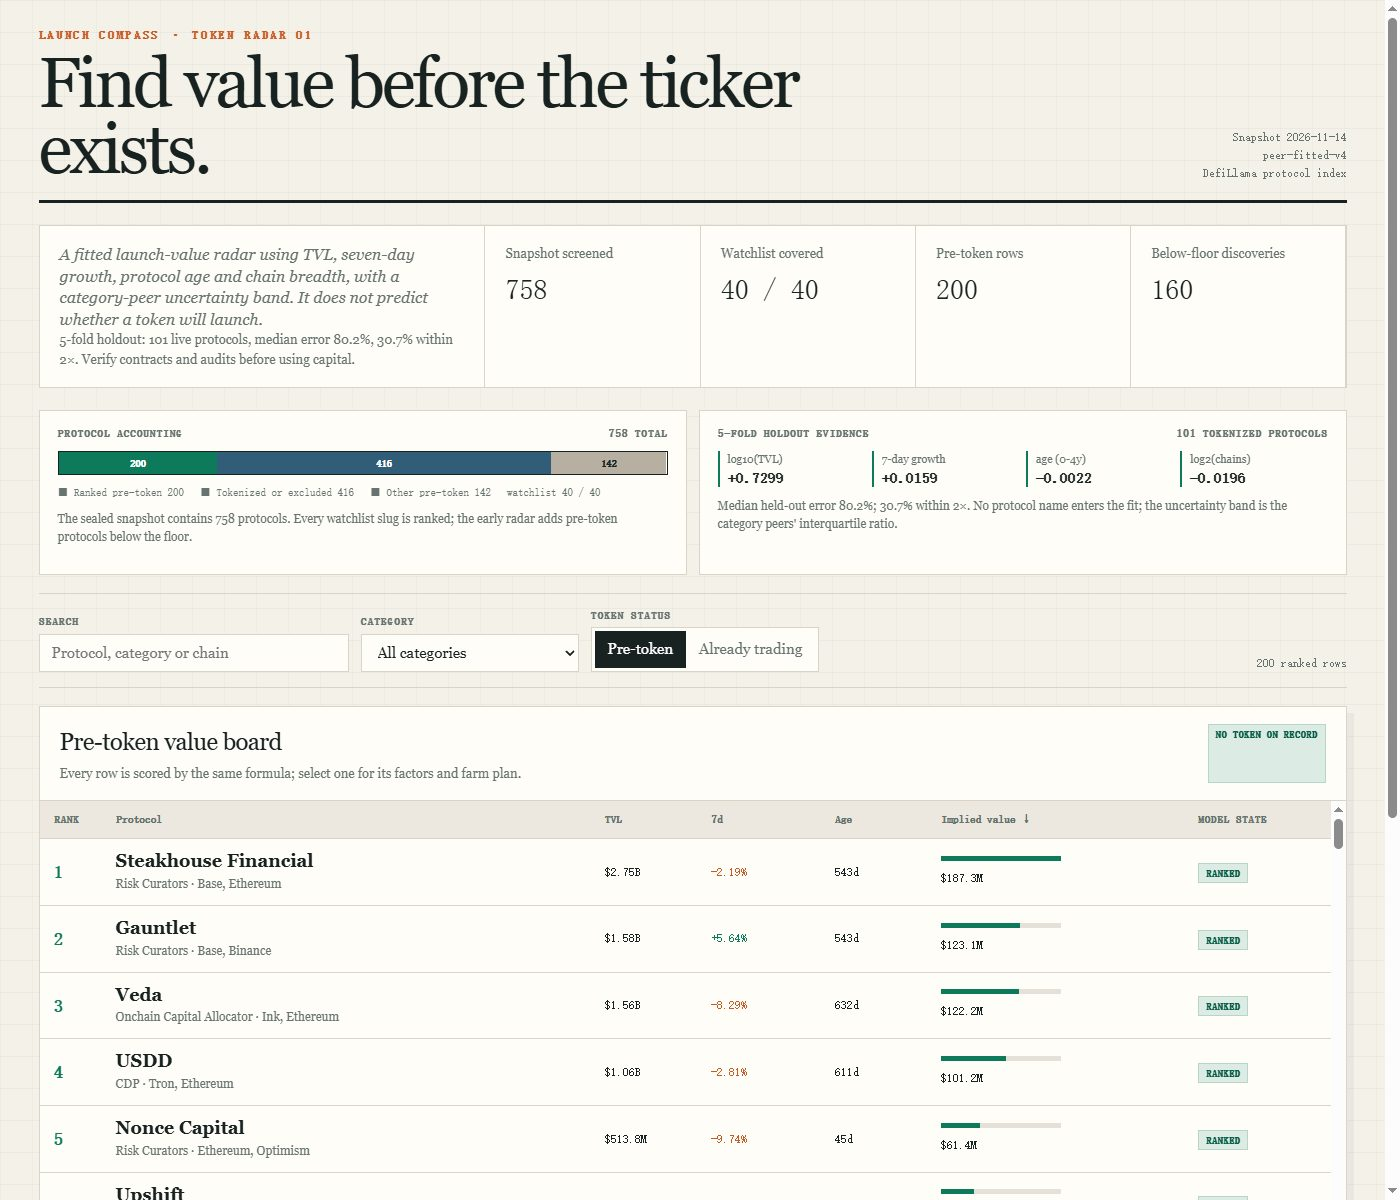
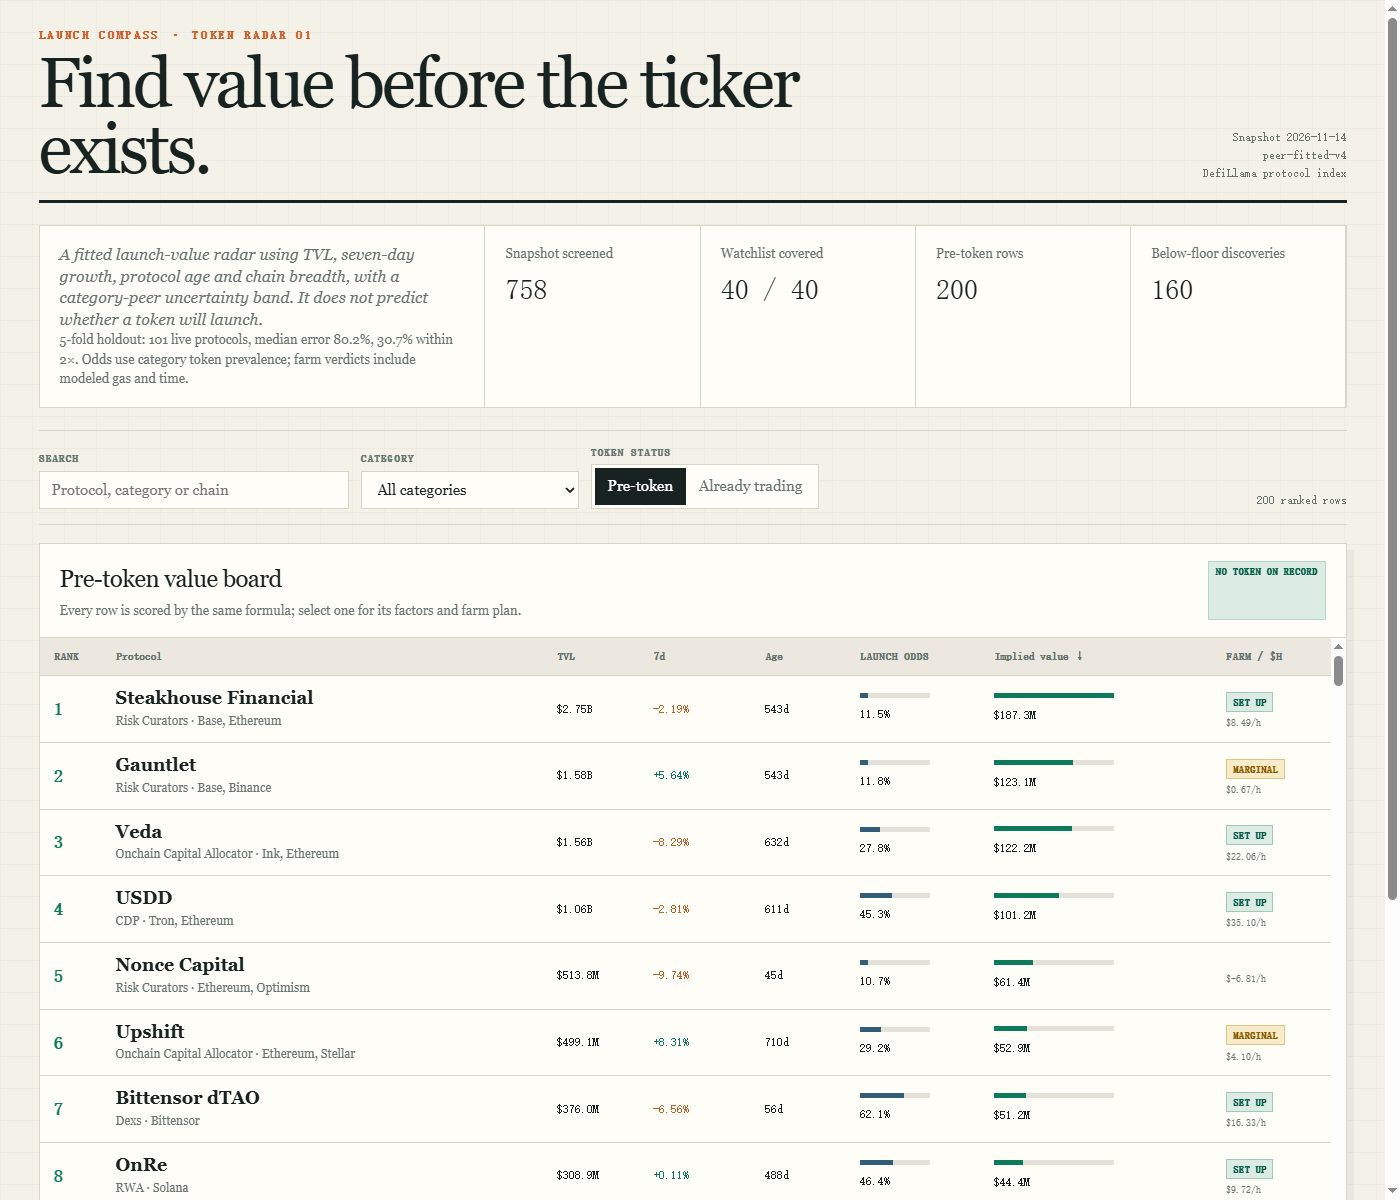
Add launch odds and costed farm verdicts

diff --git a/dashboard/dashboard.js b/dashboard/dashboard.js
@@ -124,10 +124,13 @@
         node("div", { class: "metric" }, node("span", { text: "Without token" }), node("b", { text: age(row.age_days) })),
         node("div", { class: "metric" }, node("span", { text: "Fitted FDV/TVL" }), node("b", { text: "×" + row.value_drivers.fitted_ratio })),
         node("div", { class: "metric" }, node("span", { text: "7d sensitivity" }), node("b", { text: row.value_drivers.growth_coefficient })),
-        node("div", { class: "metric" }, node("span", { text: "Implied value" }), node("b", { text: money(row.implied_value_usd) }))
+        node("div", { class: "metric" }, node("span", { text: "Implied value" }), node("b", { text: money(row.implied_value_usd) })),
+        node("div", { class: "metric" }, node("span", { text: "Launch odds" }), node("b", { text: row.launch_odds_pct + "%" })),
+        node("div", { class: "metric" }, node("span", { text: "Modeled net" }), node("b", { text: money(row.modeled_net_usd) })),
+        node("div", { class: "metric" }, node("span", { text: "Net / hour" }), node("b", { text: "$" + Number(row.modeled_net_per_hour).toFixed(2) }))
       )
     ));
-    body.appendChild(node("p", { class: "subtle", text: "Peer range: " + money(row.implied_value_low_usd) + " to " + money(row.implied_value_high_usd) + ". The range uses the category peers' lower and upper quartile FDV/TVL, not a promise." }));
+    body.appendChild(node("p", { class: "subtle", text: "Verdict: " + row.farm_verdict + ". Peer range: " + money(row.implied_value_low_usd) + " to " + money(row.implied_value_high_usd) + ". Modeled net uses a 0.0002% modeled allocation, assumed gas, " + row.modeled_hours + " work hours and a 5% annual capital cost; it is not a promise." }));
     body.appendChild(node("section", { class: "detail-section" },
       node("h3", { text: "Farm plan" }),
       node("ol", { class: "steps" }, steps(row).map(function (step) { return node("li", { text: step }); }))
@@ -155,7 +158,7 @@
     return node("section", { class: "summary" },
       node("div", null,
         node("p", { class: "note", text: "A fitted launch-value radar using TVL, seven-day growth, protocol age and chain breadth, with a category-peer uncertainty band. It does not predict whether a token will launch." }),
-        node("p", { class: "subtle", text: "5-fold holdout: " + DATA.calibration.sample_size + " live protocols, median error " + DATA.calibration.median_error_pct + "%, " + DATA.calibration.within_two_x_pct + "% within 2×. Verify contracts and audits before using capital." })
+        node("p", { class: "subtle", text: "5-fold holdout: " + DATA.calibration.sample_size + " live protocols, median error " + DATA.calibration.median_error_pct + "%, " + DATA.calibration.within_two_x_pct + "% within 2×. Odds use category token prevalence; farm verdicts include modeled gas and time." })
       ),
       node("div", null, node("p", { text: "Snapshot screened" }), node("strong", { text: String(DATA.universe_size) })),
       node("div", null, node("p", { text: "Watchlist covered" }), node("strong", { text: DATA.watchlist_size + " / " + DATA.watchlist_size })),
@@ -183,46 +186,6 @@
     );
   }
 
-  function evidence() {
-    var a = DATA.accounting;
-    var rankedShare = Math.round((a.ranked / DATA.universe_size) * 100);
-    var tokenizedShare = Math.round((a.tokenized / DATA.universe_size) * 100);
-    var otherShare = Math.max(0, 100 - rankedShare - tokenizedShare);
-    return node("section", { class: "evidence" },
-      node("div", { class: "evidence-panel" },
-        node("div", { class: "evidence-title" },
-          node("span", { text: "Protocol accounting" }),
-          node("span", { text: DATA.universe_size + " total" })
-        ),
-        node("div", { class: "ledger" },
-          node("span", { class: "ranked", style: "width:" + rankedShare + "%", text: String(a.ranked) }),
-          node("span", { class: "tokenized", style: "width:" + tokenizedShare + "%", text: String(a.tokenized) }),
-          node("span", { class: "other", style: "width:" + otherShare + "%", text: String(a.other_pre_token) })
-        ),
-        node("div", { class: "ledger-copy" },
-          node("span", { text: "■ Ranked pre-token " + a.ranked }),
-          node("span", { text: "■ Tokenized or excluded " + a.tokenized }),
-          node("span", { text: "■ Other pre-token " + a.other_pre_token }),
-          node("span", { text: "watchlist " + a.watchlist + " / " + a.watchlist })
-        ),
-        node("p", { class: "evidence-copy", text: "The sealed snapshot contains " + DATA.universe_size + " protocols. Every watchlist slug is ranked; the early radar adds pre-token protocols below the floor." })
-      ),
-      node("div", { class: "evidence-panel" },
-        node("div", { class: "evidence-title" },
-          node("span", { text: "5-fold holdout evidence" }),
-          node("span", { text: DATA.calibration.sample_size + " tokenized protocols" })
-        ),
-        node("div", { class: "coefficients" }, DATA.feature_evidence.map(function (item) {
-          return node("div", { class: "coefficient" },
-            node("span", { text: item.term }),
-            node("b", { text: (item.coefficient >= 0 ? "+" : "") + Number(item.coefficient).toFixed(4) })
-          );
-        })),
-        node("p", { class: "evidence-copy", text: "Median held-out error " + DATA.calibration.median_error_pct + "%; " + DATA.calibration.within_two_x_pct + "% within 2×. No protocol name enters the fit; the uncertainty band is the category peers' interquartile ratio." })
-      )
-    );
-  }
-
   function sortButton(key, label) {
     return node("th", null, node("button", { type: "button", text: label + (state.sort === key ? (state.direction < 0 ? " ↓" : " ↑") : ""), onclick: function () {
       if (state.sort === key) state.direction *= -1;
@@ -243,7 +206,7 @@
       node("div", { class: "table-wrap" },
         node("table", null,
           node("thead", null, node("tr", null,
-            node("th", { text: "Rank" }), sortButton("name", "Protocol"), sortButton("tvl", "TVL"), sortButton("growth", "7d"), sortButton("age", "Age"), sortButton("value", "Implied value"), node("th", { text: "Model state" })
+            node("th", { text: "Rank" }), sortButton("name", "Protocol"), sortButton("tvl", "TVL"), sortButton("growth", "7d"), sortButton("age", "Age"), node("th", { text: "Launch odds" }), sortButton("value", "Implied value"), node("th", { text: "Farm / $h" })
           )),
           node("tbody", null, list.map(function (row) {
             var growthClass = row.change_7d === null ? "" : row.change_7d >= 0 ? "positive" : "negative";
@@ -253,8 +216,12 @@
               node("td", { class: "num", text: money(row.tvl_usd) }),
               node("td", { class: "num " + growthClass, text: pct(row.change_7d) }),
               node("td", { class: "num", text: age(row.age_days) }),
+              node("td", { class: "odds" }, node("div", { class: "bar" }, node("i", { style: "width:" + Math.max(3, row.launch_odds_pct) + "%" })), node("span", { class: "num", text: row.launch_odds_pct + "%" })),
               node("td", { class: "value" }, node("div", { class: "bar" }, node("i", { style: "width:" + Math.max(3, Math.round((row.implied_value_usd / maximum) * 100)) + "%" })), node("span", { class: "num", text: money(row.implied_value_usd) })),
-              node("td", null, node("span", { class: "status", text: "ranked" }))
+              node("td", null,
+                node("span", { class: "verdict " + row.farm_verdict.toLowerCase().replace(" ", "-"), text: row.farm_verdict }),
+                node("div", { class: "verdict-copy", text: "$" + Number(row.modeled_net_per_hour).toFixed(2) + "/h" })
+              )
             );
           }))
         )
@@ -300,7 +267,6 @@
     var shell = node("div", { class: "shell" });
     shell.appendChild(header());
     shell.appendChild(summary());
-    shell.appendChild(evidence());
     shell.appendChild(toolbar());
     shell.appendChild(state.tab === "pre-token" ? preTokenTable() : liveTable());
     shell.appendChild(methodology());

diff --git a/lib/model.ts b/lib/model.ts
@@ -49,6 +49,11 @@ export interface BoardRow {
   implied_value_low_usd: number;
   implied_value_high_usd: number;
   implied_value_usd: number;
+  launch_odds_pct: number;
+  farm_verdict: "SET UP" | "MARGINAL" | "SKIP";
+  modeled_net_usd: number;
+  modeled_hours: number;
+  modeled_net_per_hour: number;
   token_status: "pre-token";
   value_drivers: {
     fitted_ratio: number;
@@ -82,16 +87,6 @@ export interface RadarData {
   early_size: number;
   live_size: number;
   universe_size: number;
-  accounting: {
-    ranked: number;
-    tokenized: number;
-    other_pre_token: number;
-    watchlist: number;
-  };
-  feature_evidence: Array<{
-    term: string;
-    coefficient: number;
-  }>;
   calibration: {
     sample_size: number;
     folds: number;
@@ -418,9 +413,53 @@ export function farmSteps(p: SnapshotProtocol, age: number | null): string[] {
   });
 }
 
+function tokenPrevalence(snapshot: Snapshot): (protocol: SnapshotProtocol) => number {
+  const grouped = new Map<string, { total: number; tokenized: number }>();
+  let total = 0;
+  let tokenized = 0;
+  for (const protocol of snapshot.protocols) {
+    total += 1;
+    const has = hasToken(protocol) ? 1 : 0;
+    tokenized += has;
+    const key = categoryKey(protocol.category);
+    const counts = grouped.get(key) ?? { total: 0, tokenized: 0 };
+    counts.total += 1;
+    counts.tokenized += has;
+    grouped.set(key, counts);
+  }
+  const baseline = tokenized / Math.max(1, total);
+  return (protocol) => {
+    const counts = grouped.get(categoryKey(protocol.category));
+    return counts && counts.total >= 8 ? counts.tokenized / counts.total : baseline;
+  };
+}
+
+function farmEconomics(
+  impliedValue: number,
+  odds: number,
+  protocol: SnapshotProtocol,
+  age: number | null,
+): Pick<BoardRow, "farm_verdict" | "modeled_net_usd" | "modeled_hours" | "modeled_net_per_hour"> {
+  const capital = capitalBand(protocol.tvl_usd);
+  const hold = age === null ? 45 : age < 180 ? 60 : age < 730 ? 45 : 30;
+  const hours = 0.25 + (hold / 7) * (10 / 60) + 0.5;
+  const participationValue = impliedValue * 0.000002 * odds;
+  const gas = 3 + (capital >= 150 ? 8 : 4) + (hold / 7) * 2 + 3;
+  const capitalCost = capital * 0.05 * (hold / 365);
+  const net = participationValue - gas - capitalCost;
+  const perHour = net / hours;
+  return {
+    farm_verdict: perHour >= 8 ? "SET UP" : perHour >= 0 ? "MARGINAL" : "SKIP",
+    modeled_net_usd: round(net, 2),
+    modeled_hours: round(hours, 1),
+    modeled_net_per_hour: round(perHour, 2),
+  };
+}
+
 export function buildRadar(snapshot: Snapshot): { board: BoardRow[]; radar: RadarData } {
   const index = new Map(snapshot.protocols.map((p) => [p.slug, p]));
   const benchmarks = buildBenchmarks(snapshot);
+  const prevalence = tokenPrevalence(snapshot);
   const selected = new Map<string, SnapshotProtocol>();
   for (const slug of snapshot.watchlist) {
     const protocol = index.get(slug);
@@ -432,10 +471,19 @@ export function buildRadar(snapshot: Snapshot): { board: BoardRow[]; radar: Rada
     .slice(0, MODEL.earlyRows);
   for (const protocol of early) selected.set(protocol.slug, protocol);
 
-  const scored = [...selected.values()].map((protocol) => ({
-    protocol,
-    ...weightedValue(protocol, snapshot.as_of, benchmarks),
-  }));
+  const scored = [...selected.values()].map((protocol) => {
+    const weighted = weightedValue(protocol, snapshot.as_of, benchmarks);
+    const rawOdds = prevalence(protocol);
+    const growth = Math.min(110, Math.max(-50, protocol.change_7d ?? 0));
+    const ageFactor = weighted.age === null ? 0.92 : 0.85 + Math.min(1460, weighted.age) / 1460 * 0.15;
+    const odds = Math.min(0.95, Math.max(0.05, rawOdds * (1 + (growth / 100) * 0.25) * ageFactor));
+    return {
+      protocol,
+      ...weighted,
+      odds,
+      economics: farmEconomics(weighted.value, odds, protocol, weighted.age),
+    };
+  });
   scored.sort((a, b) => b.value - a.value || a.protocol.slug.localeCompare(b.protocol.slug));
   const board = scored.map((row, index): BoardRow => ({
     rank: index + 1,
@@ -449,6 +497,8 @@ export function buildRadar(snapshot: Snapshot): { board: BoardRow[]; radar: Rada
     implied_value_low_usd: row.low,
     implied_value_high_usd: row.high,
     implied_value_usd: row.value,
+    launch_odds_pct: round(row.odds * 100, 1),
+    ...row.economics,
     token_status: "pre-token",
     value_drivers: row.factors,
     farm_steps: farmSteps(row.protocol, row.age),
@@ -478,23 +528,6 @@ export function buildRadar(snapshot: Snapshot): { board: BoardRow[]; radar: Rada
     early_size: board.filter((row) => !snapshot.watchlist.includes(row.slug)).length,
     live_size: live.length,
     universe_size: snapshot.protocols.length,
-    accounting: {
-      ranked: board.length,
-      tokenized: snapshot.protocols.filter((protocol) => hasToken(protocol)).length,
-      other_pre_token: Math.max(
-        0,
-        snapshot.protocols.length -
-          board.length -
-          snapshot.protocols.filter((protocol) => hasToken(protocol)).length,
-      ),
-      watchlist: snapshot.watchlist.length,
-    },
-    feature_evidence: [
-      { term: "log10(TVL)", coefficient: benchmarks.coefficients[1] ?? 0 },
-      { term: "7-day growth", coefficient: benchmarks.coefficients[2] ?? 0 },
-      { term: "age (0-4y)", coefficient: benchmarks.coefficients[3] ?? 0 },
-      { term: "log2(chains)", coefficient: benchmarks.coefficients[4] ?? 0 },
-    ],
     calibration: benchmarks.calibration,
     rows: board.map(({ farm_steps: _steps, ...row }) => row),
     live,

diff --git a/dashboard/dashboard.css b/dashboard/dashboard.css
@@ -72,62 +72,6 @@ h1 {
   font: 500 28px/1 ui-monospace, "Cascadia Mono", monospace;
 }
 .summary .note { font-style: italic; font-size: 16px; line-height: 1.35; }
-.evidence {
-  display: grid;
-  grid-template-columns: 1fr 1fr;
-  gap: 12px;
-  margin: 0 0 18px;
-}
-.evidence-panel {
-  padding: 16px 18px;
-  border: 1px solid var(--line);
-  background: var(--card);
-}
-.evidence-title {
-  display: flex;
-  justify-content: space-between;
-  gap: 12px;
-  margin-bottom: 10px;
-  color: var(--muted);
-  font: 700 11px/1.2 ui-monospace, "Cascadia Mono", monospace;
-  letter-spacing: .08em;
-  text-transform: uppercase;
-}
-.ledger {
-  display: flex;
-  min-height: 24px;
-  overflow: hidden;
-  border: 1px solid var(--ink);
-}
-.ledger span {
-  display: flex;
-  align-items: center;
-  justify-content: center;
-  min-width: 28px;
-  padding: 4px 7px;
-  color: white;
-  font: 700 10px/1 ui-monospace, monospace;
-}
-.ledger .ranked { background: var(--green); }
-.ledger .tokenized { background: var(--blue); }
-.ledger .other { background: #b7b0a2; color: var(--ink); }
-.ledger-copy {
-  display: flex;
-  flex-wrap: wrap;
-  gap: 8px 16px;
-  margin-top: 10px;
-  color: var(--muted);
-  font: 11px/1.4 ui-monospace, monospace;
-}
-.coefficients {
-  display: grid;
-  grid-template-columns: repeat(4, 1fr);
-  gap: 7px;
-}
-.coefficient { border-left: 2px solid var(--green); padding-left: 8px; }
-.coefficient span { display: block; color: var(--muted); font-size: 11px; }
-.coefficient b { display: block; margin-top: 3px; font: 600 14px/1.2 ui-monospace, monospace; }
-.evidence-copy { margin-top: 10px; color: var(--muted); font-size: 12px; }
 .toolbar {
   display: flex;
   align-items: end;
@@ -195,6 +139,14 @@ tbody tr:hover, tbody tr.selected { background: #eef6f0; }
 .value { min-width: 170px; }
 .bar { width: 120px; height: 5px; background: #e6e1d8; margin-bottom: 5px; }
 .bar i { display: block; height: 100%; background: var(--green); }
+.odds { min-width: 86px; }
+.odds .bar { width: 70px; margin-bottom: 4px; }
+.odds .bar i { background: var(--blue); }
+.verdict { display: inline-block; padding: 4px 6px; border: 1px solid var(--line); font: 700 10px/1 ui-monospace, monospace; letter-spacing: .04em; }
+.verdict.set-up { color: #075c45; border-color: #9fcab8; background: var(--green-soft); }
+.verdict.marginal { color: #8b5a00; border-color: #dfc486; background: #f7ebc9; }
+.verdict.skip { color: #8b2e1f; border-color: #d8a498; background: #f6ddd7; }
+.verdict-copy { margin-top: 4px; color: var(--muted); font: 10px/1.2 ui-monospace, monospace; white-space: nowrap; }
 .positive { color: var(--green); }
 .negative { color: var(--orange); }
 .status {
@@ -263,8 +215,6 @@ dialog::backdrop { background: rgba(24,35,33,.35); }
   .masthead { grid-template-columns: 1fr; }
   .timestamp { text-align: left; }
   .summary { grid-template-columns: 1fr 1fr; }
-  .evidence { grid-template-columns: 1fr; }
-  .coefficients { grid-template-columns: 1fr 1fr; }
   .method { grid-template-columns: 1fr; }
   .field input { width: 100%; }
   .result-count { margin-left: 0; }
